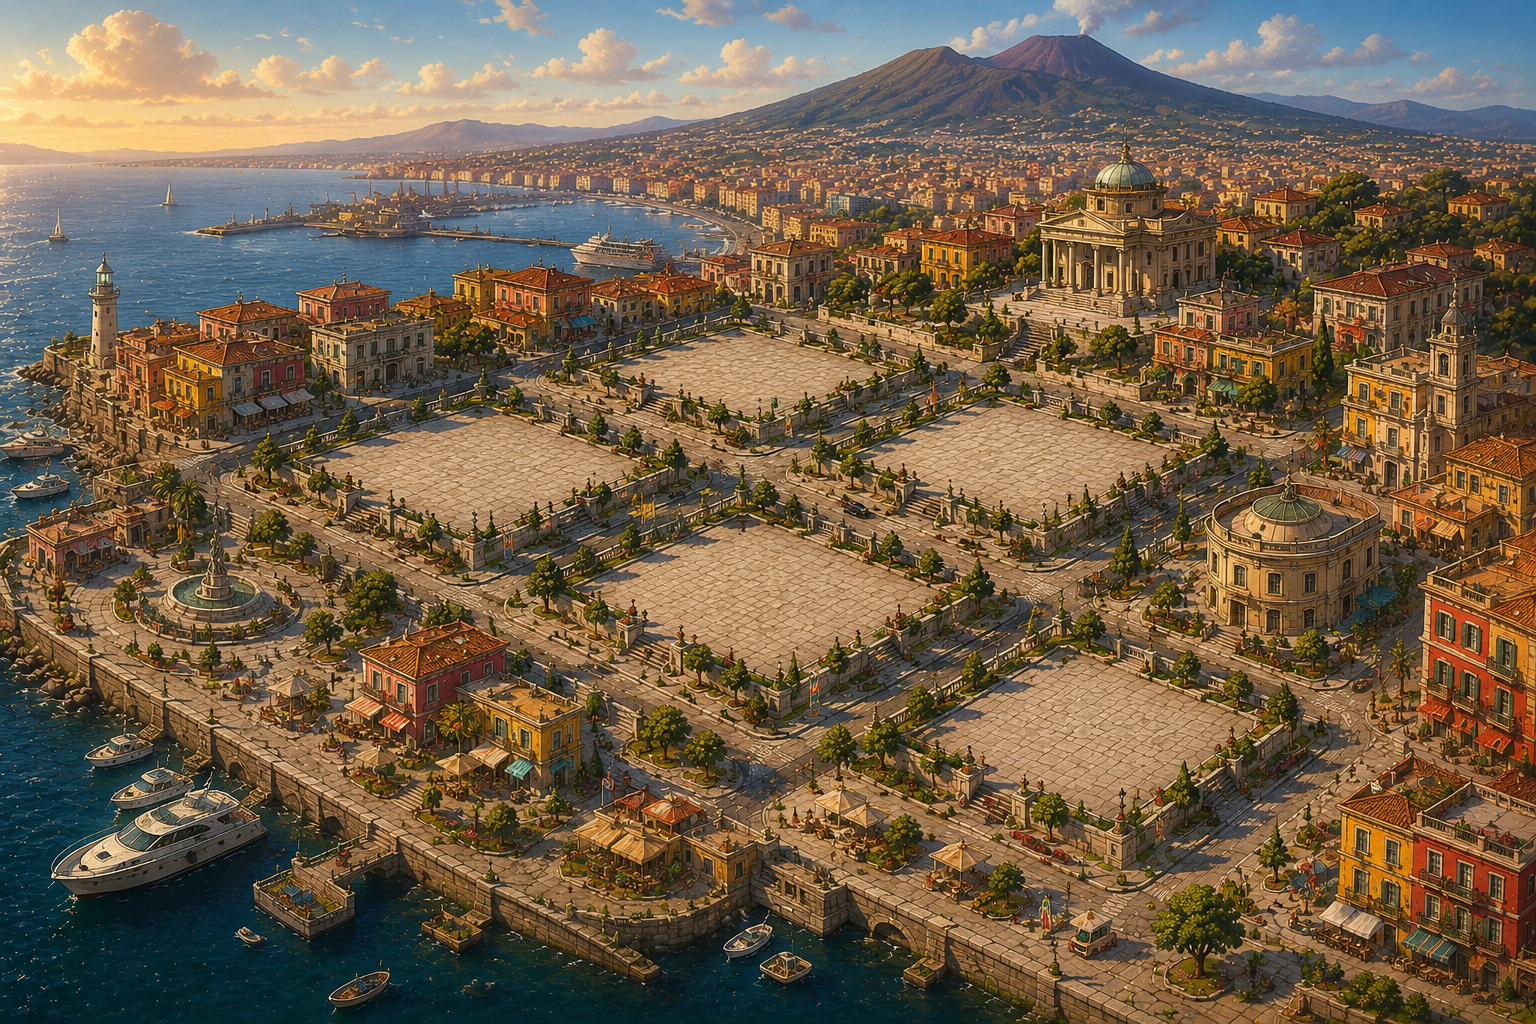
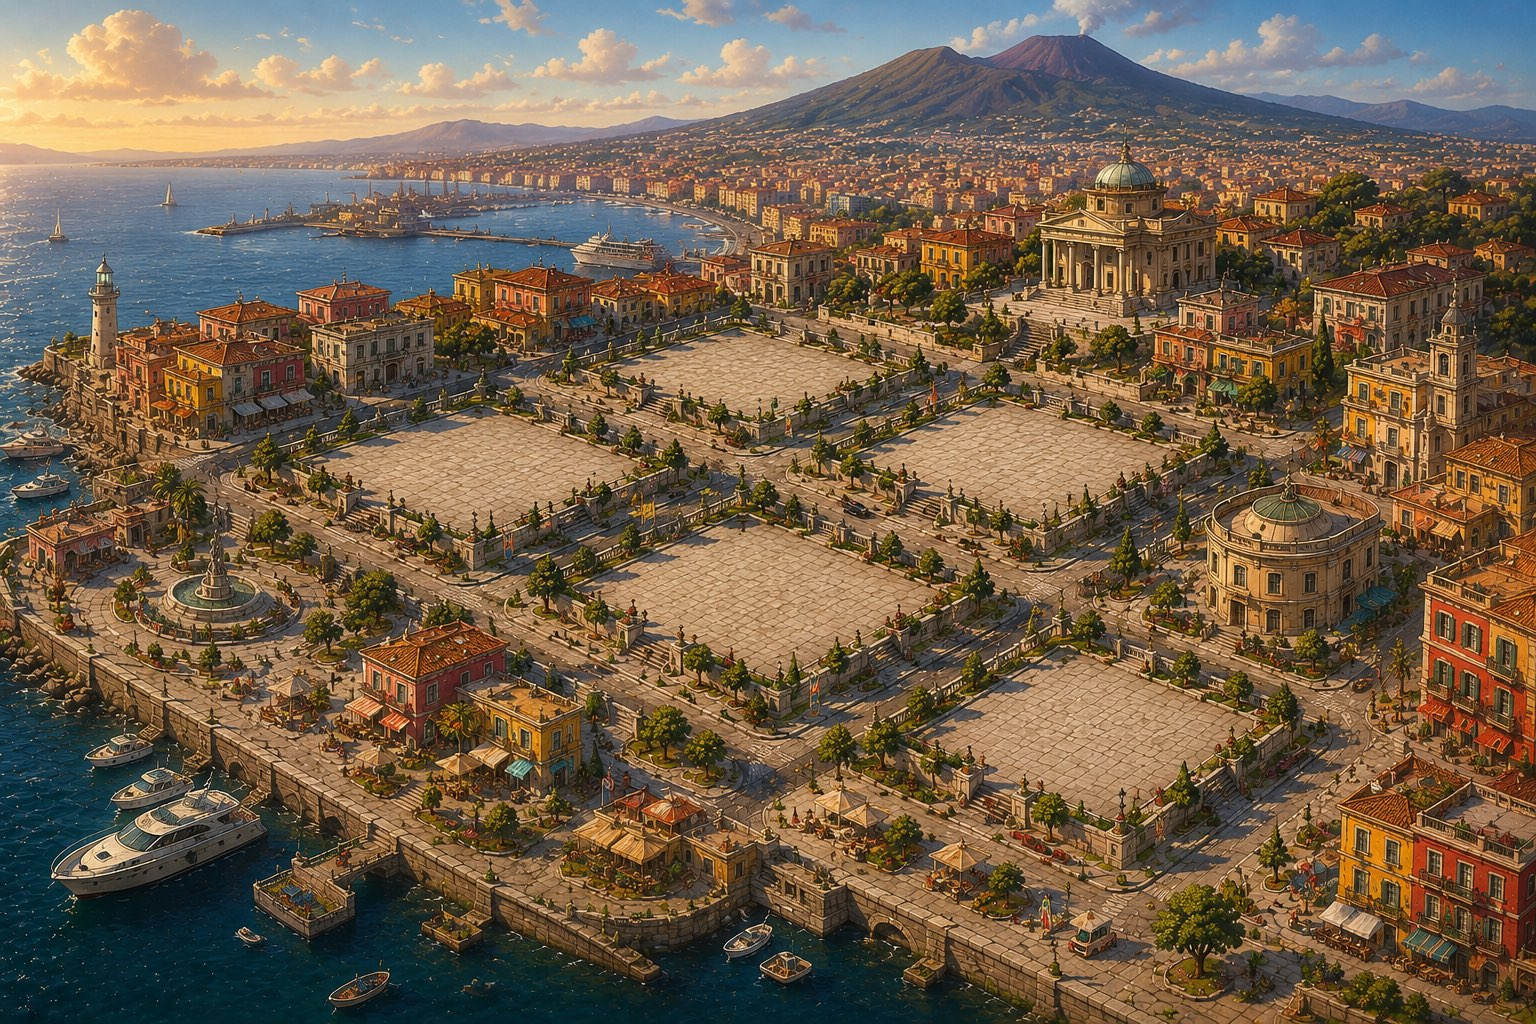
perf: defer all scripts, compress city backgrounds 18.9MB→2.9MB
- Add defer to all 78 <script src> tags in index.html
- Wrap inline init script in DOMContentLoaded (fires after deferred scripts per spec)
- Compress bg_*.jpg via sips -s formatOptions 60 (JPEG quality 60)

Changed region(s): [[0.875, 0.7812, 0.9062, 0.8125]]

diff --git a/index.html b/index.html
@@ -40,7 +40,7 @@
   <link href="https://fonts.googleapis.com/css2?family=Cinzel:wght@400;700;900&family=Orbitron:wght@500;700;900&family=Roboto+Mono:wght@400;500;700&family=Inter:wght@400;500;600;700&family=Montserrat:wght@400;500;600;700;800&display=swap" rel="stylesheet">
   <link rel="stylesheet" href="style.css">
   <link rel="stylesheet" href="premium-ui.css">
-  <script src="https://cdn.jsdelivr.net/npm/@supabase/supabase-js@2"></script>
+  <script defer src="https://cdn.jsdelivr.net/npm/@supabase/supabase-js@2"></script>
   <style>
     @keyframes moneyFly {
       0%   { transform: translateY(0) scale(1); opacity: 1; }
@@ -529,95 +529,89 @@
   </div>
 
   <!-- Mapbox GL JS v3.6 -->
-  <script src='https://api.mapbox.com/mapbox-gl-js/v3.6.0/mapbox-gl.js'></script>
+  <script defer src='https://api.mapbox.com/mapbox-gl-js/v3.6.0/mapbox-gl.js'></script>
   <!-- Three.js r128 -->
 
 
   <div id="mobile-dispatcher" class="hidden"></div>
-  <script src="security.js?v=5"></script>
-  <script src="design-system.js?v=5"></script>
-  <script src="supabase-config.js?v=5"></script>
-  <script src="config.js?v=5"></script>
-  <script src="geoCoords.js?v=5"></script>
-  <script src="routesDB.js?v=5"></script>
-  <script src="data.js?v=5"></script>
-  <script src="lang.js?v=5"></script>
-  <script src="syncManager.js?v=5"></script>
-  <script src="saveSystem.js?v=5"></script>
-  <script src="serverState.js?v=5"></script>
-  <script src="ui-landing.js?v=5"></script>
-  <script src="auth.js?v=5"></script>
-  <script src="quests-data.js?v=5"></script>
-  <script src="quests.js?v=5"></script>
-  <script src="engine.js?v=5"></script>
-  <script src="engine-daily.js?v=5"></script>
-  <script src="engine-rides.js?v=5"></script>
-  <script src="engine-finance.js?v=5"></script>
-  <script src="engine-drivers.js?v=5"></script>
-  <script src="engine-fleet.js?v=5"></script>
-  <script src="engine-store.js?v=5"></script>
-  <script src="engine-holding.js?v=5"></script>
-  <script src="engine-rivals.js?v=5"></script>
-  <script src="engine-events.js?v=5"></script>
-  <script src="vip-buffs.js?v=5"></script>
-  <script src="vip-clients.js?v=5"></script>
-  <script src="war_room.js?v=5"></script>
-  <script src="dispatcher.js?v=5"></script>
-  <script src="map.js?v=5"></script>
-  <script src="map-router.js?v=5"></script>
-  <script src="map-garage.js?v=5"></script>
-  <script src="map-visual.js?v=5"></script>
-  <script src="ui-emails.js?v=5"></script>
-  <script src="ui-marketing.js?v=5"></script>
-  <script src="ui-finance.js?v=5"></script>
-  <script src="ui-dispatch.js?v=5"></script>
-  <script src="ui-fleet.js?v=5"></script>
-  <script src="ui-staff.js?v=5"></script>
-  <script src="ui-lifestyle.js?v=5"></script>
-  <script src="ui-ops.js?v=5"></script>
-  <script src="ui-ranking.js?v=5"></script>
-  <script src="ui-investments.js?v=5"></script>
-  <script src="ui-legal.js?v=5"></script>
-  <script src="ui-politics.js?v=5"></script>
-  <script src="ui-career.js?v=5"></script>
-  <script src="ui-store.js?v=5"></script>
-  <script src="ui-market.js?v=5"></script>
-  <script src="ui-home.js?v=5"></script>
-  <script src="ui-help.js?v=5"></script>
-  <script src="ui-hub.js?v=5"></script>
-  <script src="ui-realestate.js?v=5"></script>
-  <script src="ui-map-utils.js?v=5"></script>
-  <script src="ui-sidebar.js?v=5"></script>
-  <script src="showroom.js?v=5"></script>
-  <script src="p2p-market.js?v=5"></script>
-  <script src="p2p-render.js?v=5"></script>
-  <script src="b2b.js?v=5"></script>
-  <script src="auctions.js?v=5"></script>
-  <script src="driver_skills.js?v=5"></script>
-  <script src="global_events.js?v=5"></script>
-  <script src="black_ops.js?v=5"></script>
-  <script src="crypto.js?v=5"></script>
-  <script src="weather_real.js?v=5"></script>
-  <script src="hq-data.js?v=7"></script>
-  <script src="hq.js?v=6"></script>
-  <script src="hq-visual.js?v=4"></script>
-  <script src="mobile_dispatcher.js?v=5"></script>
-  <script src="hostile_takeover.js?v=5"></script>
-  <script src="nemesis.js?v=5"></script>
-  <script src="infrastructure.js?v=5"></script>
-  <script src="contracts.js?v=5"></script>
-  <script src="tourism.js?v=5"></script>
-  <script src="tutorial.js?v=5"></script>
-  <script src="premium-ui.js?v=5"></script>
-  <script src="motion.js?v=5"></script>
+  <script defer src="security.js?v=5"></script>
+  <script defer src="design-system.js?v=5"></script>
+  <script defer src="supabase-config.js?v=5"></script>
+  <script defer src="config.js?v=5"></script>
+  <script defer src="geoCoords.js?v=5"></script>
+  <script defer src="routesDB.js?v=5"></script>
+  <script defer src="data.js?v=5"></script>
+  <script defer src="lang.js?v=5"></script>
+  <script defer src="syncManager.js?v=5"></script>
+  <script defer src="saveSystem.js?v=5"></script>
+  <script defer src="serverState.js?v=5"></script>
+  <script defer src="ui-landing.js?v=5"></script>
+  <script defer src="auth.js?v=5"></script>
+  <script defer src="quests-data.js?v=5"></script>
+  <script defer src="quests.js?v=5"></script>
+  <script defer src="engine.js?v=5"></script>
+  <script defer src="engine-daily.js?v=5"></script>
+  <script defer src="engine-rides.js?v=5"></script>
+  <script defer src="engine-finance.js?v=5"></script>
+  <script defer src="engine-drivers.js?v=5"></script>
+  <script defer src="engine-fleet.js?v=5"></script>
+  <script defer src="engine-store.js?v=5"></script>
+  <script defer src="engine-holding.js?v=5"></script>
+  <script defer src="engine-rivals.js?v=5"></script>
+  <script defer src="engine-events.js?v=5"></script>
+  <script defer src="vip-buffs.js?v=5"></script>
+  <script defer src="vip-clients.js?v=5"></script>
+  <script defer src="war_room.js?v=5"></script>
+  <script defer src="dispatcher.js?v=5"></script>
+  <script defer src="map.js?v=5"></script>
+  <script defer src="map-router.js?v=5"></script>
+  <script defer src="map-garage.js?v=5"></script>
+  <script defer src="map-visual.js?v=5"></script>
+  <script defer src="ui-emails.js?v=5"></script>
+  <script defer src="ui-marketing.js?v=5"></script>
+  <script defer src="ui-finance.js?v=5"></script>
+  <script defer src="ui-dispatch.js?v=5"></script>
+  <script defer src="ui-fleet.js?v=5"></script>
+  <script defer src="ui-staff.js?v=5"></script>
+  <script defer src="ui-lifestyle.js?v=5"></script>
+  <script defer src="ui-ops.js?v=5"></script>
+  <script defer src="ui-ranking.js?v=5"></script>
+  <script defer src="ui-investments.js?v=5"></script>
+  <script defer src="ui-legal.js?v=5"></script>
+  <script defer src="ui-politics.js?v=5"></script>
+  <script defer src="ui-career.js?v=5"></script>
+  <script defer src="ui-store.js?v=5"></script>
+  <script defer src="ui-market.js?v=5"></script>
+  <script defer src="ui-home.js?v=5"></script>
+  <script defer src="ui-help.js?v=5"></script>
+  <script defer src="ui-hub.js?v=5"></script>
+  <script defer src="ui-realestate.js?v=5"></script>
+  <script defer src="ui-map-utils.js?v=5"></script>
+  <script defer src="ui-sidebar.js?v=5"></script>
+  <script defer src="showroom.js?v=5"></script>
+  <script defer src="p2p-market.js?v=5"></script>
+  <script defer src="p2p-render.js?v=5"></script>
+  <script defer src="b2b.js?v=5"></script>
+  <script defer src="auctions.js?v=5"></script>
+  <script defer src="driver_skills.js?v=5"></script>
+  <script defer src="global_events.js?v=5"></script>
+  <script defer src="black_ops.js?v=5"></script>
+  <script defer src="crypto.js?v=5"></script>
+  <script defer src="weather_real.js?v=5"></script>
+  <script defer src="hq-data.js?v=7"></script>
+  <script defer src="hq.js?v=6"></script>
+  <script defer src="hq-visual.js?v=4"></script>
+  <script defer src="mobile_dispatcher.js?v=5"></script>
+  <script defer src="hostile_takeover.js?v=5"></script>
+  <script defer src="nemesis.js?v=5"></script>
+  <script defer src="infrastructure.js?v=5"></script>
+  <script defer src="contracts.js?v=5"></script>
+  <script defer src="tourism.js?v=5"></script>
+  <script defer src="tutorial.js?v=5"></script>
+  <script defer src="premium-ui.js?v=5"></script>
+  <script defer src="motion.js?v=5"></script>
   <script>
-    (function initTicker() {
-      const track = document.getElementById('news-ticker-track');
-      if (!track || typeof WORLD_NEWS === 'undefined') return;
-      const items = [...WORLD_NEWS, ...WORLD_NEWS, ...WORLD_NEWS];
-      track.innerHTML = items.map(n => `<span>${n}</span>`).join('');
-    })();
-    // Show any JS errors as a visible banner (debugging aid)
+    // onerror runs immediately (before deferred scripts) to catch load-time errors
     window.onerror = function(msg, src, line, col, err) {
       let banner = document.getElementById('_err_banner');
       if (!banner) {
@@ -632,7 +626,15 @@
       banner.textContent = `JS ERROR ${file} L${line}: ${msg}`;
       return false;
     };
-    if (typeof window.switchTab === 'function') window.switchTab('corse');
+    // DOMContentLoaded fires after all deferred scripts have executed
+    document.addEventListener('DOMContentLoaded', function() {
+      const track = document.getElementById('news-ticker-track');
+      if (track && typeof WORLD_NEWS !== 'undefined') {
+        const items = [...WORLD_NEWS, ...WORLD_NEWS, ...WORLD_NEWS];
+        track.innerHTML = items.map(n => `<span>${n}</span>`).join('');
+      }
+      if (typeof window.switchTab === 'function') window.switchTab('corse');
+    });
   </script>
 
   <script>
